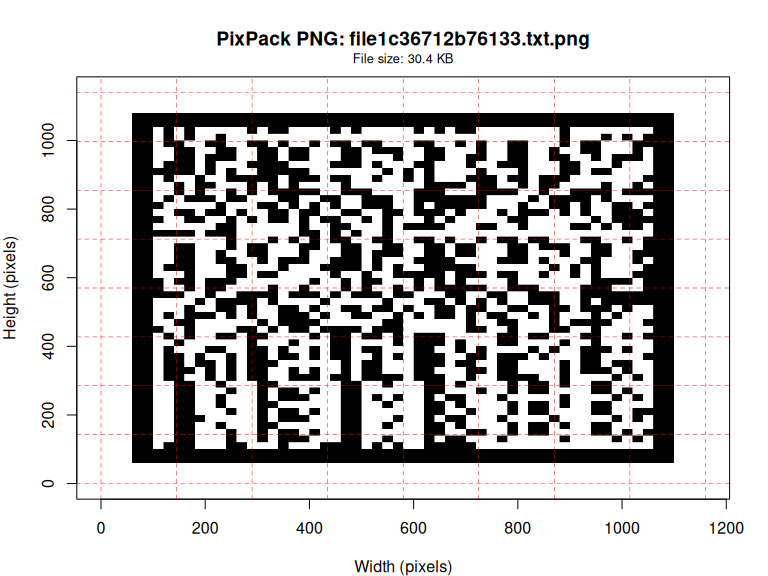
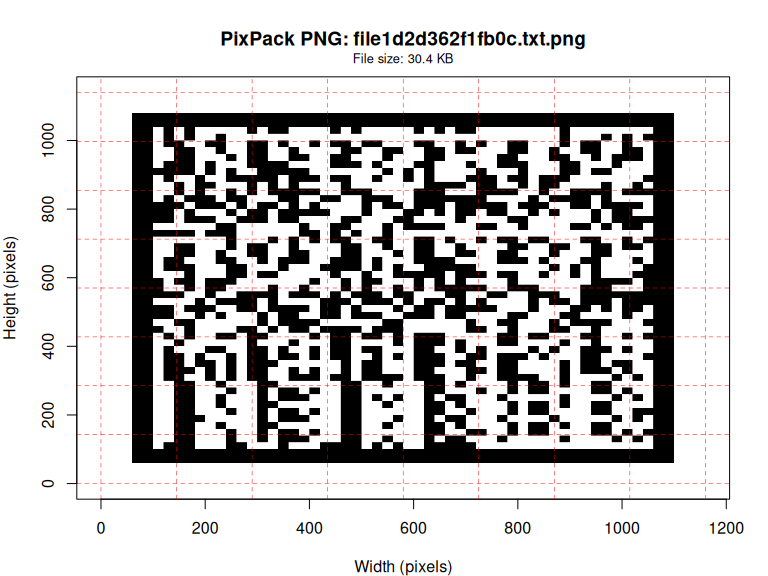
binding

diff --git a/README.md b/README.md
@@ -15,8 +15,7 @@ You’ll need Rust installed on your system. Install from
 [rustup.rs](https://rustup.rs/).
 
 ``` r
-# Install from source (development version)
-devtools::install_github("sounkou-bioinfo/pixpack", subdir = ".", ref = "Rpixpack")
+install.packages('Rpixpack', repos = c('https://sounkou-bioinfo.r-universe.dev', 'https://cloud.r-project.org'))
 ```
 
 ## Quick Start
@@ -32,9 +31,9 @@ library(Rpixpack)
 png_file <- tempfile(fileext = ".png")
 result <- pixpack_text("Hello, PixPack from R! 🚀📊", png_file)
 #> Encoding text to PNG...
-#> Created PNG: /tmp/RtmpxVuzpM/file1c3673b22b899.png
+#> Created PNG: /tmp/RtmpLBTRaT/file1d2d3720bc3ff.png
 cat("Created PNG:", result, "\n")
-#> Created PNG: /tmp/RtmpxVuzpM/file1c3673b22b899.png
+#> Created PNG: /tmp/RtmpLBTRaT/file1d2d3720bc3ff.png
 
 # Decode PNG back to text
 decoded <- pixpack_text(png_path = png_file)
@@ -47,10 +46,10 @@ cat("Decoded text:", decoded, "\n")
 info <- pixpack_info(png_file)
 print(info)
 #> PixPack File Info:
-#>   File: file1c3673b22b899.png 
-#>   Size: 26.28 KB
+#>   File: file1d2d3720bc3ff.png 
+#>   Size: 26.27 KB
 #>   Type: Possibly PixPack PNG (use pixpack_plot for visualization) 
-#>   Modified: 2025-08-09 21:44:17
+#>   Modified: 2025-08-09 21:52:00
 ```
 
 ### File Encoding Example
@@ -70,12 +69,12 @@ writeLines(test_content, test_file)
 # Encode file to PNG
 png_result <- pixpack_convert(test_file, verbose = TRUE)
 #> Encoding file to PNG...
-#> Output: /tmp/RtmpxVuzpM/file1c36712b76133.txt.png
+#> Output: /tmp/RtmpLBTRaT/file1d2d362f1fb0c.txt.png
 
 # Decode PNG back to original file
 decoded_file <- pixpack_convert(png_result, verbose = TRUE)
 #> Decoding PNG to original file...
-#> Output: /tmp/RtmpxVuzpM/file1c36712b76133.txt
+#> Output: /tmp/RtmpLBTRaT/file1d2d362f1fb0c.txt
 
 # Verify the content is preserved
 original_content <- readLines(test_file)
